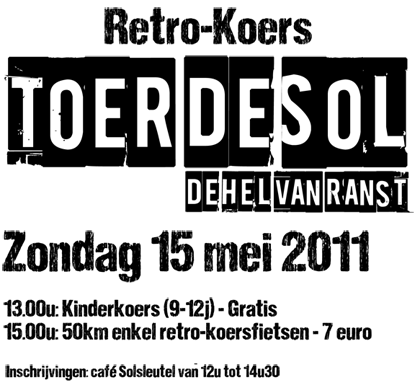
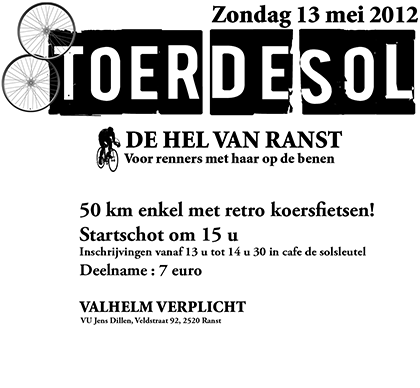
Update 2012.

diff --git a/site/db/regels.md b/site/db/regels.md
@@ -1,29 +1,27 @@
-## Reglement Toer de Sol
+## Reglement Toer de Sol
 
 Dit reglement dient ten allen tijde nageleefd te worden. Inbreuken op dit reglement worden bestraft met diskwalificatie.
 
-1.	Valhelm verplicht voor elke deelnemer voor de twee wedstrijden!
+1.	Valhelm verplicht voor elke deelnemer!
 2.	Elke deelnemende fiets wordt vooraf aan een technische controle onderworpen. Indien de remmen of andere onderdelen niet volstaan mag deze fiets niet deelnemen aan de wedstrijd. De organisatie van “Toer de Sol” heeft hierin de eindbeslissing. Er is geen beroep tegen deze beslissing mogelijk.
-3.	Voor de kinderkoers zijn alle fietsen die technisch in orde zijn toegelaten, met uitzondering van bakfietsen, elektrische fietsen, en alle fietsen die meer of minder dan 2 wielen en één zadel hebben.
-4.	Voor de retrokoers worden enkel retro-racefietsen toegelaten. De retrofiets in de “Toer de Sol” moet voldoen aan drie voorwaarden:
+3.	Voor de retrokoers worden enkel retro-racefietsen toegelaten. De retrofiets in de “Toer de Sol” moet voldoen aan drie voorwaarden:
 
 	*	Racefiets
 	*	Versnellingen niet aan het stuur te bedienen (vitessen “aan de baar”)
 	*	Geen klikpedalen, beugels zijn wel toegestaan.
 
-5.	Zowel mannen als vrouwen mogen deelnemen aan beide koersen. Ze starten in beide koersen samen. Voor de retrokoers zal er een apart klassement opgemaakt worden.
-6.	De kinderkoers start om 13.00u. Inschrijven vóór 12.30u. Inschrijving is voor deze koers gratis.
-7.	De retrokoers start om 15.00u. De uiterste aankomsttijd voor deze koers wordt bepaald op 17.00u. Na 17.00u wordt iedereen uit de wedstrijd gehaald en zal het parcours terug opengesteld worden voor verkeer.
-8.	Inschrijven dient te gebeuren vóór 14.30u voor de retrokoers. Inschrijving voor deze wedstrijd kost 7 euro.
-9.	Het maximum aantal deelnemers voor de retrokoers wordt bepaald op 70 deelnemers.
-10.	Eenieder die meedoet wordt door de organisatie van “Toer de Sol” afdoende verzekerd tegen lichamelijke schade. Iedereen tekent vooraf een papier dat de organisatie niet verantwoordelijk is voor gebeurlijke ongevallen.
-11.	Kasseistroken zijn verplicht te nemen. Het voetpad maakt geen onderdeel uit van het parcours.
-12.	Deelnemers mogen geen alcohol of andere verdovende of illegale middelen nuttigen voor of tijdens de wedstrijd.
-13.	Elke deelnemer die gedubbeld wordt dient plaats te maken teneinde de kopgroep niet te hinderen bij het voorbijsteken.
-14.	Elke deelnemer dient zich fair te gedragen ten opzichte van de andere deelnemers. Bij gevaarlijk rijgedrag wordt de betrokkene onmiddellijk uit de koers genomen.
-15.	De deelnemers mogen zich niet laten afleiden door de schoonheid van onze seingevers. Iedereen houdt het hoofd bij de koers.
-16.	De rugnummers worden verplicht ontleend met betaling van een waarborg van 3 euro. Indien u na de wedstrijd uw rugnummer terugbrengt naar de organisatie dan krijgt u deze waarborg terug. 
-17.	De organisatoren kunnen deelnemers die zich niet aan dit reglement houden ten allen tijde niet laten starten of uit de koers nemen.
+4.	Zowel mannen als vrouwen mogen deelnemen aan de koers. Ze starten samen. Voor de retrokoers zal er een apart klassement opgemaakt worden.
+5.	De retrokoers start om 15.00u. De uiterste aankomsttijd voor deze koers wordt bepaald op 17.00u. Na 17.00u wordt iedereen uit de wedstrijd gehaald en zal het parcours terug opengesteld worden voor verkeer.
+6.	Inschrijven dient te gebeuren vóór 14.30u voor de retrokoers. Inschrijving voor deze wedstrijd kost 7 euro.
+7.	Het maximum aantal deelnemers voor de retrokoers wordt bepaald op 90 deelnemers.
+8.	Eenieder die meedoet wordt door de organisatie van “Toer de Sol” afdoende verzekerd tegen lichamelijke schade. Iedereen tekent vooraf een papier dat de organisatie niet verantwoordelijk is voor gebeurlijke ongevallen.
+9.	Kasseistroken zijn verplicht te nemen. Het voetpad maakt geen onderdeel uit van het parcours.
+10.	Deelnemers mogen geen alcohol of andere verdovende of illegale middelen nuttigen voor of tijdens de wedstrijd.
+11.	Elke deelnemer die gedubbeld wordt dient plaats te maken teneinde de kopgroep niet te hinderen bij het voorbijsteken.
+12.	Elke deelnemer dient zich fair te gedragen ten opzichte van de andere deelnemers. Bij gevaarlijk rijgedrag wordt de betrokkene onmiddellijk uit de koers genomen.
+13.	De deelnemers mogen zich niet laten afleiden door de schoonheid van onze seingevers. Iedereen houdt het hoofd bij de koers.
+14.	De rugnummers worden verplicht ontleend met betaling van een waarborg van 3 euro. Indien u na de wedstrijd uw rugnummer terugbrengt naar de organisatie dan krijgt u deze waarborg terug. 
+15.	De organisatoren kunnen deelnemers die zich niet aan dit reglement houden ten allen tijde niet laten starten of uit de koers nemen.
 
 
 De koersdirectie van “Toer de sol”.

diff --git a/site/db/index.md b/site/db/index.md
@@ -4,6 +4,11 @@ Welkom bij Toer De Sol!
 
 ### Nieuwsberichten
 
-*14 april 2011* - **Site online**<br/> De site is nu volledig af. Je vindt alle informatie in de desbetreffende rubrieken. 
-*3 mei 2011* - **Aanpassing reglement**<br/> Een kleine aanpassing aan het reglement doorgevoerd (maximum aantal deelnemers)
-*5 juni 2011* - De eerste fotos staan online en gelinkt vanaf de site.
+* *29 april 2012* - Site up to date gebracht voor Toerdesol 2012.
+
+#### Editie 2011
+
+* *5 juni 2011* - De eerste fotos staan online en gelinkt vanaf de site.
+* *3 mei 2011* - **Aanpassing reglement** -- Een kleine aanpassing aan het reglement doorgevoerd (maximum aantal deelnemers)
+* *14 april 2011* - **Site online** -- De site is nu volledig af. Je vindt alle informatie in de desbetreffende rubrieken. 
+

diff --git a/site/db/fotos.md b/site/db/fotos.md
@@ -1,5 +1,13 @@
 ## De foto's
 
+Na de koers komen hier snel foto's van Toerdesol 2012.
+
+## Editie 2012
+
+<a href="http://www.flickr.com/photos/katrienguetens/sets/72157629744856926/show/">![Foto's Katrien Guetens - Retro](/images/fotos-katrien-2012.jpg)</a>
+
+## Editie 2011
+
 <a href="http://www.flickr.com/photos/katrienguetens/sets/72157626736964730/show/">![Foto's Katrien Guetens - Kids Retro](/images/fotos-katrien-kids.jpg)</a>
 
 <a href="http://www.flickr.com/photos/katrienguetens/sets/72157626619186857/show/">![Foto's Katrien Guetens - Retro](/images/fotos-katrien-retro.jpg)</a>

diff --git a/site/db/parcours.md b/site/db/parcours.md
@@ -5,5 +5,3 @@ Een ronde gaat als volgt: start op hoek Molenstraat-Lievevrouwestraat, dan achte
 
 ![Kaartje van't parcours](/images/kaart.jpg)
 
-Voor de wedstrijd van de jeugd wordt het parcours ingekort tot 4 ronden van 1,2 km met start op de hoek Lievevrouwestraat-Molenstraat en dan via de Lievevrouwestraat naar de Salvialaan, Rozenlaan en opnieuw Molenstraat.
-
